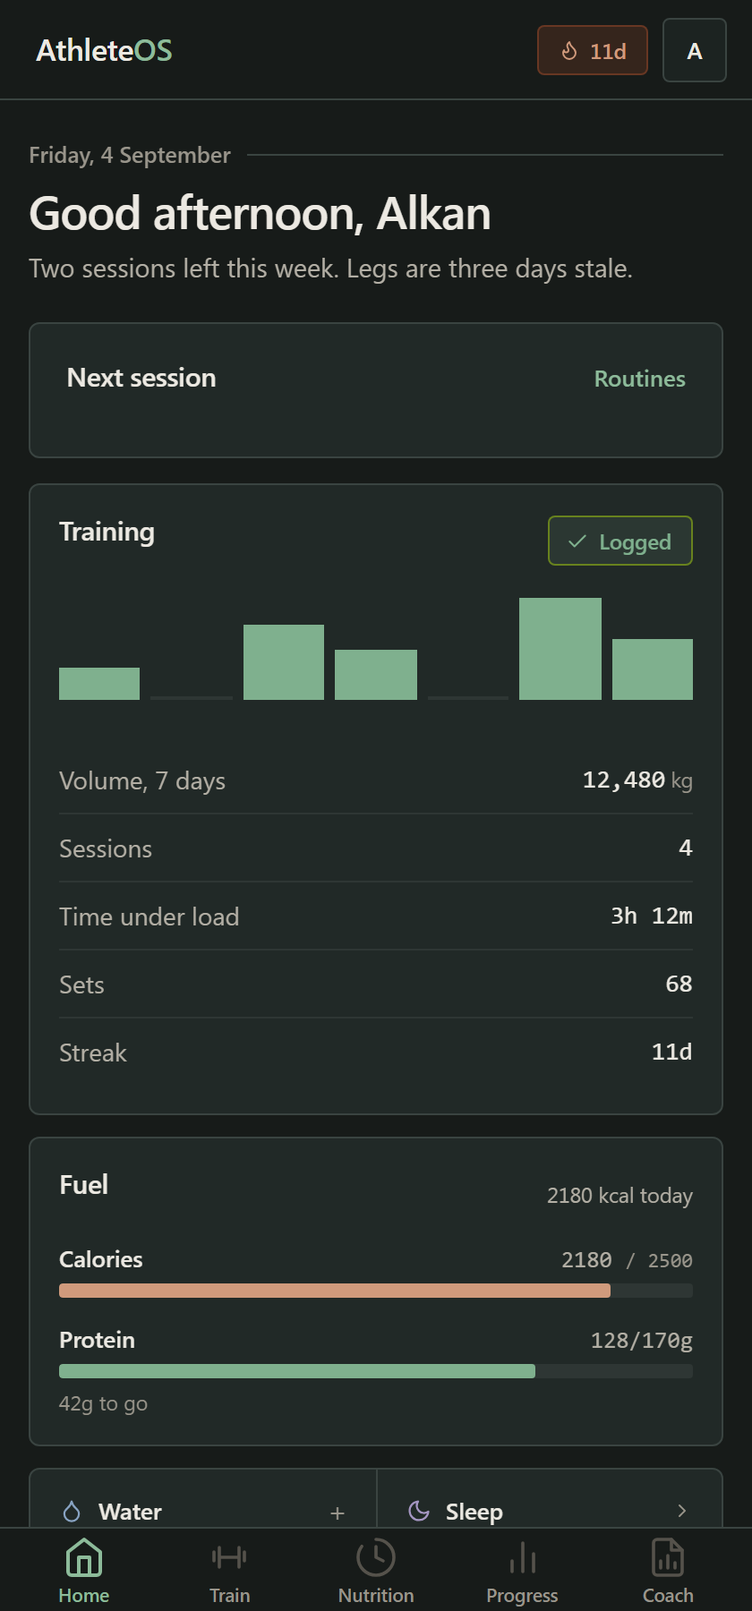
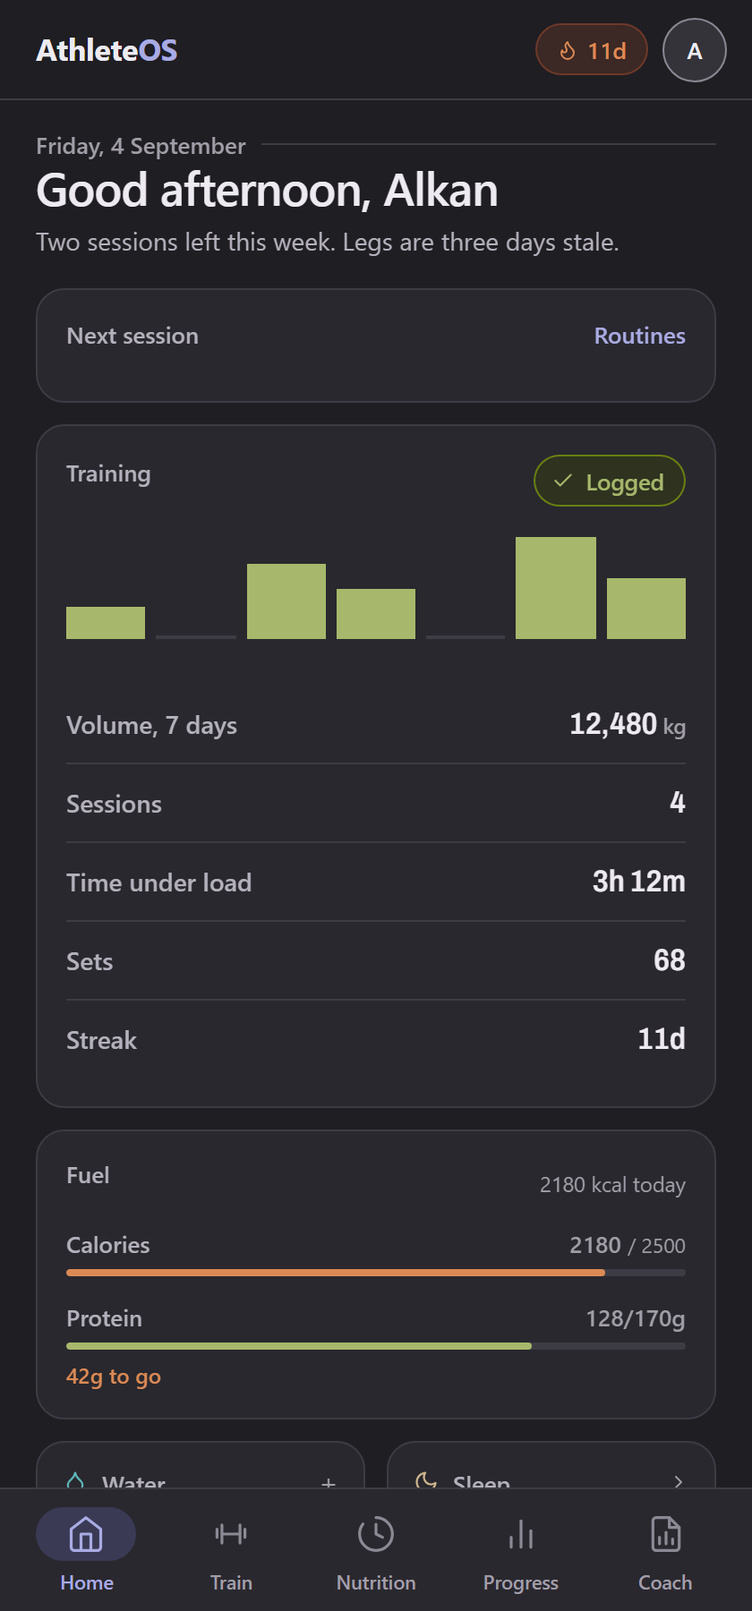
Adopt the Iron design: charcoal cards, one periwinkle accent, Archivo figures
Restyle every screen to the Claude Design handoff (dark-first charcoal
ground with lighter card and input layers, 16/12px radii, flat 1px
borders, gym-toned data colours, Archivo 88% tabular figures) while
keeping all features and the existing five-tab navigation.

Remove the Settings accent picker and the inline accent bootstrap, since
Iron has one accent per theme and inline styles were overriding the
stylesheet. Update theme-color, manifest colours, the SW cache (v80),
chart colour fallbacks, and regenerate the marketing screenshots.

diff --git a/app.css b/app.css
@@ -3245,3 +3245,285 @@ body.dark .rp-h{background:var(--card2)}
 .cv-send{background:var(--accent-fill);border:none;color:#FFFFFF}
 .cv-send:hover{background:var(--accent-fill-d)}
 .cv-send:disabled{background:var(--surface-2);color:var(--t3);cursor:default}
+
+
+/* ═══════════════════════════════════════════════════════════════
+   IRON — final layer (2026-10-29)
+   Dark-first charcoal, cards not rules, periwinkle accent that means
+   "act here", gym-toned data colours, Archivo 88% for every figure.
+   Only colour changes between themes. No shadows, no gradients, no glow.
+   ═══════════════════════════════════════════════════════════════ */
+:root{
+  --font-figure:"Archivo",system-ui,-apple-system,"Segoe UI",Roboto,sans-serif;
+  --font-body:system-ui,-apple-system,"Segoe UI",Roboto,sans-serif;
+  --font-display:var(--font-body);
+  --font-mono:var(--font-figure);
+  --figure-stretch:88%;
+  --r:16px;--r-sm:8px;--r-lg:16px;--r-btn:12px;--r-chip:999px;
+  --shadow-sm:none;--shadow:none;--shadow-lg:none;
+  --dur-tap:120ms;--dur-move:200ms;--ease:cubic-bezier(.2,.7,.2,1);
+
+  /* Light */
+  --ground:#E9E8EC;--surface-i:#F6F5F8;--raised:#FFFFFF;
+  --line:#D5D3DB;--line-strong:#78767F;
+  --ink:#1F1E22;--ink-2:#55535C;--ink-3:#64626C;
+  --accent:#4F4FA0;--accent-d:#43438C;--accent-fg:#FFFFFF;--accent-dim:#E2E2F4;--accent-rgb:79,79,160;
+  --training:#586920;--fuel:#9E4A1A;--water:#196A6E;--sleep:#735F1E;--danger:#B42F27;
+  --fuel-tint:#F3DDD0;--training-tint:#E6EBD2;--water-tint:#D3E9EA;--sleep-tint:#EFE6CF;
+
+  /* legacy token bridge */
+  --bg:var(--ground);--bg2:var(--surface-i);--card:var(--surface-i);--card2:var(--raised);
+  --surface:var(--raised);--surface-2:var(--line);--bm-rest:var(--line);
+  --t:var(--ink);--t2:var(--ink-2);--t3:var(--ink-3);--t4:var(--line-strong);
+  --bdr:var(--line);--bdr2:var(--line);--bdr3:var(--line-strong);
+  --accent-fill:var(--accent);--accent-fill-d:var(--accent-d);--accent-ink:var(--accent-fg);
+  --adim:var(--accent-dim);
+  --blue:var(--water);--bdim:var(--water-tint);
+  --red:var(--danger);--yel:var(--sleep);--pur:var(--sleep);--pink:var(--fuel);
+  --sig-train:var(--training);--sig-train-pure:var(--training);
+  --sig-fuel:var(--fuel);--sig-fuel-pure:var(--fuel);
+  --sig-water:var(--water);--sig-water-pure:var(--water);
+  --sig-sleep:var(--sleep);--sig-sleep-pure:var(--sleep);
+  --sig-track:var(--line);
+}
+html{background:#E9E8EC}
+html.dark{background:#1F1E22}
+body.dark{
+  --ground:#1F1E22;--surface-i:#29282E;--raised:#34333A;
+  --line:#3D3C44;--line-strong:#8B8994;
+  --ink:#EDEBF1;--ink-2:#B4B1BC;--ink-3:#A19EA8;
+  --accent:#A9ABE3;--accent-d:#9A9CD6;--accent-fg:#1F1E22;--accent-dim:#3A3A55;--accent-rgb:169,171,227;
+  --training:#A7B86C;--fuel:#DC8A55;--water:#5DB5B8;--sleep:#CDB68E;--danger:#F08A80;
+  --fuel-tint:#3E2A1E;--training-tint:#2E321F;--water-tint:#1E3334;--sleep-tint:#3A3222;
+  --surface-2:var(--line);
+}
+body{background:var(--ground);color:var(--ink);font-family:var(--font-body);font-feature-settings:"tnum"}
+
+/* ── Figures: Archivo 88%, tabular, heavy ── */
+.stat-num,.readout-v,.ring-v,.meter-v,.util-v,.hero-foot-v,.tile-mini .sv,.tr-vol-unit,
+.sv,.wkday-num,.set-v,.pr-v,.targets-n,.kv td.num,.tbl td.num,.tbl th.num,
+.sw-time,.hud-v,.next-name,.prc-num,.obp-plan-v,.eng-grid td,.si,.rest-time,.rest-big,.bm-v,.cal-day-n{
+  font-family:var(--font-figure);font-stretch:var(--figure-stretch);font-variant-numeric:tabular-nums;font-weight:600;letter-spacing:0}
+.kv td.num,.tbl td.num{font-size:17px}
+.kv td.num small,.kv td.num .su,.util-v .su,.hud-v small{font-family:var(--font-body);font-stretch:100%;font-weight:500;color:var(--ink-3)}
+.util-v{font-size:30px;line-height:1}
+.sv{font-size:30px}
+.tr-vol .stat-num{font-weight:700;letter-spacing:-.02em}
+.sw-time,.rest-time{font-size:36px;font-weight:700;letter-spacing:-.02em;line-height:1}
+.next-name{font-size:34px;font-weight:700;letter-spacing:-.02em;line-height:1}
+.next-body b,.next-body strong{font-family:var(--font-figure);font-stretch:var(--figure-stretch);font-variant-numeric:tabular-nums;font-weight:600;color:var(--ink)}
+
+/* ── Type: titles heavy, labels 13/600 ── */
+.ptitle,.hero-title,.onb-h,.onb-hero,.obp-title,.pw-hero-title,.wc-brand,.alogo,.eng-title,.spl-h{
+  font-family:var(--font-body);font-weight:700;letter-spacing:-.02em;line-height:32px}
+.ptitle,.hero-title{font-size:28px;margin-bottom:14px}
+.hero-title{margin-bottom:4px}
+.home-head{padding:0 0 16px}
+.home-head .hero-title{margin:2px 0 4px}
+.home-date{font-size:13px;font-weight:500;color:var(--ink-3)}
+.home-sub{font-size:14px;color:var(--ink-2)}
+.ctitle,.band-kicker,.next-t,.targets-t,.f label,.meter-l,.util-l,.readout-l,.seclabel,.tgt-l{
+  font-size:13px;font-weight:600;color:var(--ink-2);letter-spacing:0;text-transform:none}
+.ctitle,.band-kicker,.next-t{margin-bottom:10px}
+.band-note,.util-s,.kv-note,.meter-note,.act-time,.rp-h time{font-size:12px;color:var(--ink-3)}
+.meter-v{font-size:13px;font-family:var(--font-body);font-stretch:100%;font-weight:500;color:var(--ink-3)}
+.sb-logo,.tlogo{font-weight:700;font-size:17px}
+.sb-logo span,.tlogo span,.wc-brand span,.alogo span{color:var(--accent)}
+b,strong{font-weight:600}
+
+/* ── Surfaces: cards on --surface, 16px, 1px --line ── */
+.card,.band,.exi,.mc,.acard,.opt-item,.obp-plan,.tip-card,.eng-out,.hero-card,.coach-card,.next,.targets,.util,
+.plan-card,.wk-card,.ex-card,.sg,.rp,.rp-form,.cv-starter,.cm.a,.qa-btn,.rest-preset,.ach-grid .ach,.sb-pro,.pw-hero,.msheet{
+  background:var(--surface-i);border:1px solid var(--line);border-radius:var(--r);box-shadow:none}
+body.dark .card,body.dark .band,body.dark .exi,body.dark .mc,body.dark .acard,body.dark .msheet,
+body.dark .opt-item,body.dark .obp-plan,body.dark .eng-out,body.dark .chat-row,body.dark .rp-h,body.dark .eng-grid th,
+body.dark .opt-item:not(.on),body.dark .atab.on,body.dark .btn-oauth{background:var(--surface-i);box-shadow:none}
+.card{padding:16px;margin-bottom:12px}
+.band{padding:16px;margin-bottom:12px}
+.next{padding:16px;margin-bottom:12px}
+.exi,.mc{padding:14px 16px;margin-bottom:10px}
+.exi{background:var(--surface-i);border:1px solid var(--line);border-top:1px solid var(--line)}
+.panel{padding:16px 20px 40px}
+@media(min-width:900px){.panel{padding:28px 32px 48px}}
+.msheet{border-radius:var(--r) var(--r) 0 0;border-bottom:none}
+.mhandle{background:var(--line-strong)}
+.modal,.tip-overlay{background:rgba(31,30,34,.6)}
+.opt-item.on,.obp-plan.on,.ach.on,.rest-preset.on{border:2px solid var(--accent);background:var(--surface-i)}
+.opt-item.on{padding:13px 15px}
+.obp-plan.on{padding:15px 17px}
+.obp-radio{background:var(--raised);border-color:var(--line-strong)}
+.opt-ico,.qa-ico,.act-ico,.tile-ico,.coach-mark,.sb-pro-ico,.obp-tile,.avatar,.sb-avatar{border-radius:var(--r-sm)}
+.coach-mark,.act-ico{background:var(--raised);color:var(--ink-2);border:1px solid var(--line)}
+.util{gap:12px;border:none;background:transparent;border-radius:0;overflow:visible}
+.util-cell{background:var(--surface-i);border:1px solid var(--line);border-radius:var(--r);padding:14px}
+.util-cell+.util-cell{border-left:1px solid var(--line)}
+.util-cell:hover{background:var(--surface-i)}
+.util-bar,.util-bar i,.meter,.meter-fill,.sync-bar,.nb,.nb i,.spl-prog,.spl-prog-fill{border-radius:2px}
+.meter,.util-bar{height:4px;background:var(--line)}
+.util-bar i{background:var(--water)}
+.util-bar.sleep i{background:var(--sleep)}
+.meter-fill.m-train{background:var(--training)}
+.meter-fill.m-fuel{background:var(--fuel)}
+.meter-note{font-size:12px;font-weight:600;color:var(--fuel)}
+.util-s{font-weight:600}
+.util-cell:first-child .util-s{color:var(--water)}
+.util-cell:last-child .util-s{color:var(--sleep)}
+.hero-spark{margin:4px 0 12px}
+.kv td,.tbl td{padding:12px 0;border-bottom:1px solid var(--line)}
+.kv td:first-child{color:var(--ink-2);font-weight:500}
+.tgt{padding:12px 0;border-bottom:1px solid var(--line)}
+.tgt-box{border-radius:6px;border:1px solid var(--line-strong)}
+.tgt.done .tgt-box,.gs-row.done .gs-check{background:var(--accent);border-color:var(--accent);color:var(--accent-fg)}
+.act-row,.tog-row{border-bottom:1px solid var(--line)}
+.plan-why{border-top:1px solid var(--line)}
+.bc-stage{border-radius:var(--r-btn)}
+#toast{border-radius:var(--r-btn);background:var(--ink);color:var(--ground);border:none;box-shadow:none;font-weight:600}
+body.dark #toast{background:var(--ink);color:var(--ground)}
+.tip-card{border-radius:var(--r);border:1px solid var(--line)}
+.tip-spot{border-radius:var(--r);box-shadow:0 0 0 9999px rgba(31,30,34,.6),0 0 0 2px var(--accent)}
+.skel,.exdemo-skel{background:var(--raised)}
+.rp-empty{border:1px dashed var(--line-strong);border-radius:var(--r);color:var(--ink-3)}
+.bp{border:1px dashed var(--line-strong);border-radius:var(--r-btn)}
+.cal-cell{border-radius:var(--r-sm);background:var(--raised);color:var(--ink-3)}
+.wkday-dot{border-radius:var(--r-sm);background:var(--raised)}
+.wkday-dot.done{background:var(--training-tint);color:var(--training)}
+.wkday-dot.today{box-shadow:inset 0 0 0 2px var(--accent)}
+.wkday-dot.today.done,.cal-cell.tr-3,.pw-tl-dot.now{background:var(--accent);color:var(--accent-fg);box-shadow:none}
+
+/* ── Controls ── */
+.btn,.wc-cta,.obp-cta,.pw-cta,.empty-cta,.tip-card .tip-ok,.chat-send,.rp-run,.cv-send{
+  border-radius:var(--r-btn);box-shadow:none;background:var(--accent);color:var(--accent-fg);font-weight:700;letter-spacing:0;border:none}
+.btn:hover,.wc-cta:hover,.obp-cta:hover,.pw-cta:hover,.rp-run:hover,.cv-send:hover,.empty-cta:hover{background:var(--accent-d);color:var(--accent-fg)}
+body.dark .btn,body.dark .wc-cta,body.dark .obp-cta,body.dark .pw-cta,body.dark .rp-run{color:var(--accent-fg)}
+.btn{min-height:52px;padding:14px 18px;font-size:16px}
+.btnsm{min-height:44px;padding:10px 16px;font-size:14px}
+.wc-cta,.obp-cta{height:52px;font-size:16px}
+.empty-cta{min-height:44px;padding:10px 18px;font-size:14px}
+.btn:disabled,.rp-run:disabled,.cv-send:disabled{background:var(--raised);color:var(--line-strong)}
+.btn-danger{background:transparent;color:var(--danger);border:1px solid var(--danger)}
+.btn-o,.btn-oauth,.eng-reset,.rp-mic,.btnsm.btn-o,.empty-cta.ghost,.cv-mic,.lnk-btn{
+  border-radius:var(--r-btn);border:1px solid var(--line-strong);background:var(--raised);color:var(--ink);box-shadow:none;font-weight:600}
+.btn-o{min-height:48px;padding:12px 18px;font-size:15px}
+.btn-o:hover,.btn-oauth:hover,.eng-reset:hover,.empty-cta.ghost:hover{background:var(--line);border-color:var(--line-strong);color:var(--ink)}
+.btn-g{border-radius:var(--r-btn);font-weight:600;color:var(--accent);min-height:44px}
+.btn-g:hover{color:var(--accent);background:var(--accent-dim)}
+.lnk,.wc-link{color:var(--accent);font-weight:600}
+.pill,.gpill,.badge,.chip,.streak-pill,.bm-chip,.obp-badge,.pw-plan-badge,.tb-pro-pill,.pro-lock,
+.mm-chip,.onb-multi-chip,.chat-chip,.mm-mode-btn,.atabs,.atab{border-radius:var(--r-chip)}
+.pill,.gpill,.mm-chip,.onb-multi-chip{border:1px solid var(--line);background:var(--surface-i);color:var(--ink-2);font-weight:600;min-height:36px}
+.gpill{min-height:44px}
+.pill.on,.gpill.on,.mm-chip.on,.onb-multi-chip.on,body:not(.dark) .pill.on,body:not(.dark) .gpill.on,body:not(.dark) .onb-multi-chip.on{
+  background:var(--accent);border-color:var(--accent);color:var(--accent-fg)}
+.chip,.chip.live,.streak-pill,.badge{background:var(--surface-i);border:1px solid var(--line);color:var(--ink-2);font-weight:600;font-size:13px}
+.chip.live{color:var(--training);border-color:var(--line);background:var(--training-tint)}
+.mm-chip.grow{border-color:transparent;background:var(--training-tint);color:var(--training)}
+.mm-chip.def{border-color:transparent;background:var(--fuel-tint);color:var(--fuel)}
+.mm-chip.exc{border-color:var(--line);background:transparent;color:var(--ink-3)}
+.tb-pro-pill,.obp-badge,.pw-plan-badge,.pro-lock,.musc-best-badge{background:var(--accent);color:var(--accent-fg);font-weight:700}
+.pw-hero-badge{background:var(--accent-dim);color:var(--accent)}
+.atabs{background:var(--raised);border:1px solid var(--line-strong);padding:3px}
+.atab{font-weight:600;color:var(--ink-2);min-height:40px}
+.atab.on,body.dark .atab.on{background:var(--accent);color:var(--accent-fg);border:none}
+.f label{margin-bottom:6px}
+.f input,.f select,.f textarea,.si,.rp-details,.cv-in{
+  background:var(--raised);border:1px solid var(--line-strong);border-radius:var(--r-btn);color:var(--ink);
+  padding:12px 14px;min-height:48px;font-size:16px;font-weight:500;box-shadow:none}
+.si{min-height:56px;font-size:24px;font-weight:600;padding:8px}
+.f input:focus,.f select:focus,.f textarea:focus,.si:focus,.rp-details:focus,.cv-in:focus,
+body.dark .f input:focus,body.dark .f select:focus,body.dark .si:focus,body.dark .rp-details:focus{
+  border-color:var(--accent);background:var(--raised);box-shadow:0 0 0 2px var(--surface-i),0 0 0 4px var(--accent);outline:none}
+.f input::placeholder,.rp-details::placeholder,.cv-in::placeholder{color:var(--ink-3);font-weight:400}
+:focus-visible{outline:none;border-radius:var(--r-sm);box-shadow:0 0 0 2px var(--surface-i),0 0 0 4px var(--accent)}
+button:focus-visible,a:focus-visible,[role="button"]:focus-visible{box-shadow:0 0 0 2px var(--surface-i),0 0 0 4px var(--accent)}
+.setdone{border-radius:var(--r-sm);border:1px solid var(--line-strong);background:var(--raised);width:32px;height:32px}
+.setdone.on{background:var(--training);border-color:var(--training);color:#1F1E22}
+.setn{color:var(--line-strong)}
+.rest-preset{border:1px solid var(--line);border-radius:var(--r);background:var(--surface-i)}
+.rest-preset.on .rp-ico,.rest-preset.on .rp-time{color:var(--accent)}
+body.dark .rest-preset:not(.on){background:var(--surface-i)}
+.avatar{background:var(--raised);color:var(--ink);border:1px solid var(--line-strong);border-radius:var(--r-chip)}
+.avatar.on,.sb-avatar{background:var(--accent);color:var(--accent-fg);border-color:var(--accent);border-radius:var(--r-chip)}
+.musc-tag.s,body.dark .musc-tag.s{background:var(--raised)}
+
+/* ── Press feedback: 120ms scale, no entrance stagger ── */
+button:not([disabled]):active,.btn:active,.wc-cta:active,.obp-cta:active,.btn-o:active,.pill:active,
+.qa-btn:active,.opt-item:active,.coach-card:active,.cv-starter:active,.util-cell:active{transform:scale(.98);transition:transform var(--dur-tap) ease-out}
+.nv:active svg.ico{transform:none}
+.nv:active{opacity:1}
+.meter-fill,.util-bar i{transition:width 240ms ease-in-out}
+
+/* ── Navigation (same five tabs; only the look changes) ── */
+.topbar{border-bottom:1px solid var(--line);background:var(--ground);box-shadow:none}
+.navbar{border-top:1px solid var(--line);background:var(--surface-i);box-shadow:none;padding:8px 8px calc(8px + env(safe-area-inset-bottom,0px))}
+.nv{min-height:52px;gap:4px;padding:0 2px;font-size:11px;font-weight:500;color:var(--ink-3);border-radius:0;justify-content:center}
+.nv svg.ico{width:56px;height:30px;padding:4px 17px;border-radius:var(--r-chip);box-sizing:border-box;stroke-width:1.75;transition:background var(--dur-tap)}
+.nv:active svg.ico{background:var(--raised)}
+.nv.on,body.dark .nv.on,body:not(.dark) .nv.on{color:var(--accent);font-weight:600}
+.nv.on svg.ico{background:var(--accent-dim);stroke-width:1.75}
+.sidebar{border-right:1px solid var(--line);background:var(--surface-i)}
+.sb-head{border-bottom:1px solid var(--line)}
+.sb-item{border-radius:var(--r-btn);font-weight:500;color:var(--ink-2);min-height:44px}
+.sb-item:hover{background:var(--raised);color:var(--ink)}
+.sb-item.on,body.dark .sb-item.on{background:var(--accent-dim);color:var(--accent);font-weight:600}
+.sb-div{background:var(--line)}
+.sb-pro{background:var(--surface-i);border:1px solid var(--line);color:var(--ink);border-radius:var(--r)}
+.sb-pro-ico{background:var(--raised);color:var(--accent)}
+
+/* ── Coach: a conversation ── */
+.eng-head{border-bottom:1px solid var(--line)}
+.eng-title{font-size:20px;line-height:24px}
+.eng-reset{color:var(--ink);border-radius:var(--r-chip);min-height:44px;padding:0 14px}
+.cv-starter{border-radius:var(--r);padding:14px 16px;font-size:15px;min-height:48px;font-weight:500}
+.cv-starter:hover{background:var(--raised);border-color:var(--line-strong)}
+.cv-empty-t{font-size:15px;color:var(--ink-2)}
+.cm{border-radius:var(--r);padding:12px 14px;font-size:15px;line-height:21px}
+.cm.u{background:var(--raised);color:var(--ink);border:1px solid var(--line);border-bottom-right-radius:4px}
+.cm.a{border-bottom-left-radius:4px}
+.cm.a b,.cm.a strong{font-weight:700;color:var(--ink)}
+.cm.a code,.rp-b code{font-family:var(--font-figure);font-stretch:var(--figure-stretch);color:var(--ink-2)}
+#chat-msgs .rp,.rp{border-radius:var(--r)}
+.rp-h{background:var(--surface-i);border-bottom:1px solid var(--line);border-radius:var(--r) var(--r) 0 0}
+.rp-confirm{border:1px solid var(--accent)}
+.rp-confirm .rp-h{color:var(--accent);font-size:13px;font-weight:700;background:transparent}
+.rp-confirm-row{border-bottom:1px solid var(--line);font-size:14px}
+.rp-confirm-actions .btn,.rp-confirm-actions .btn-o{min-height:48px;padding:12px;font-size:15px}
+.eng-grid th{background:var(--surface-i);border-bottom:1px solid var(--line);color:var(--ink-2);font-weight:600;font-size:12px}
+.eng-grid td{border-bottom:1px solid var(--line);font-size:14px}
+.eng-grid-wrap{border:1px solid var(--line);border-radius:var(--r-sm)}
+.cv-row{border-top:1px solid var(--line)}
+.cv-in{min-height:48px;padding:12px 14px}
+.cv-mic,.cv-send{width:48px;height:48px;border-radius:var(--r-btn)}
+.cv-mic.on,.rp-mic.on{background:var(--danger);border-color:var(--danger);color:#FFFFFF}
+.cm-ty .dots span,.dots span{background:var(--ink-3)}
+.sync-bar{background:var(--line)}
+.sync-bar::after{background:var(--accent);opacity:.7}
+
+/* ── Charts / rings ── */
+.ring-track,.sring-track,.spl-ring-t{stroke:var(--line)}
+.ring-arc{stroke-linecap:round}
+.spl-ring-a{stroke:var(--accent)}
+.spl-prog-fill{background:var(--accent)}
+
+/* ── Reduced motion ── */
+@media (prefers-reduced-motion:reduce){
+  *,*::before,*::after{transition-duration:120ms!important;animation:none!important}
+  button:not([disabled]):active,.btn:active,.nv:active svg.ico{transform:none!important}
+}
+
+/* Dark bridge: body.dark literals from older layers beat :root var() on the body, so restate them here. */
+body.dark{
+  --bg:var(--ground);--bg2:var(--surface-i);--card:var(--surface-i);--card2:var(--raised);
+  --surface:var(--raised);--surface-2:var(--line);--bm-rest:var(--line);
+  --t:var(--ink);--t2:var(--ink-2);--t3:var(--ink-3);--t4:var(--line-strong);
+  --bdr:var(--line);--bdr2:var(--line);--bdr3:var(--line-strong);
+  --accent-fill:var(--accent);--accent-fill-d:var(--accent-d);--accent-ink:var(--accent-fg);--adim:var(--accent-dim);
+  --blue:var(--water);--bdim:var(--water-tint);--red:var(--danger);--yel:var(--sleep);--pur:var(--sleep);--pink:var(--fuel);
+  --sig-train:var(--training);--sig-train-pure:var(--training);--sig-fuel:var(--fuel);--sig-fuel-pure:var(--fuel);
+  --sig-water:var(--water);--sig-water-pure:var(--water);--sig-sleep:var(--sleep);--sig-sleep-pure:var(--sleep);--sig-track:var(--line);
+}
+body.dark .pill.on,body.dark .gpill.on,body.dark .mm-chip.on,body.dark .onb-multi-chip.on{color:var(--accent-fg)}
+.opt-item:hover,body:not(.dark) .opt-item:hover{background:var(--surface-i);border-color:var(--line-strong)}
+.opt-item.on,body:not(.dark) .opt-item.on,body.dark .opt-item.on{background:var(--surface-i)}
+.onb-multi-chip.on,body:not(.dark) .onb-multi-chip.on{background:var(--accent);color:var(--accent-fg);border-width:1px;padding:18px 16px}
+body.dark .eng-out,body.dark .eng-out-h,body.dark .chat-row,body.dark .eng-grid th,body.dark .btn-oauth{background:var(--surface-i)}
+body.dark .btn-oauth{background:var(--raised)}

diff --git a/index.html b/index.html
@@ -7,7 +7,7 @@
 <meta name="apple-mobile-web-app-capable" content="yes">
 <meta name="apple-mobile-web-app-status-bar-style" content="black-translucent">
 <meta name="apple-mobile-web-app-title" content="AthleteOS">
-<meta name="theme-color" content="#0A0A0C">
+<meta name="theme-color" content="#1F1E22">
 <link rel="manifest" href="manifest.json">
 <link rel="apple-touch-icon" href="icon-192.png">
 <title>AthleteOS</title>
@@ -23,22 +23,10 @@
   var m=localStorage.getItem('athleteos_theme')||'dark';
   var dark=m==='dark'||(m==='system'&&window.matchMedia&&window.matchMedia('(prefers-color-scheme: dark)').matches);
   if(dark)document.documentElement.classList.add('dark');
-  /* [dark text accent, dark text hover, dark fill, light fill, light hover, dark fill hover] */
-  var A={moss:['#8DBB9A','#A0C9AC','#3F6F52','#3E6B4C','#325A3E','#4A7F5F'],
-         clay:['#D9A07F','#E2B194','#9E5330','#B35A33','#964A28','#B06040'],
-         ochre:['#D4B46A','#DEC283','#8A6A1E','#8A6718','#735514','#9A7A2A'],
-         slate:['#93ACC9','#A5BBD4','#3F5A7A','#4A6480','#3B5068','#4B6A8E']};
-  var LEGACY={volt:'moss',green:'moss',forest:'moss',forge:'clay',cool:'slate',purple:'slate',pink:'clay',plum:'slate'};
-  var key=localStorage.getItem('athleteos_accent')||'moss';key=LEGACY[key]||key;
-  var a=A[key]||A.moss;
-  var st=document.documentElement.style;
-  st.setProperty('--accent',dark?a[0]:a[3]);
-  st.setProperty('--accent-d',dark?a[1]:a[4]);
-  st.setProperty('--accent-fill',dark?a[2]:a[3]);
-  st.setProperty('--accent-fill-d',dark?a[5]:a[4]);
-  st.setProperty('--accent-ink','#FFFFFF');
+  /* Iron: one accent per theme lives in app.css; nothing is set inline. */
 }catch(e){}})();
 </script>
+<link rel="stylesheet" href="https://fonts.googleapis.com/css2?family=Archivo:wdth,wght@75..100,500..700&display=swap">
 <link rel="stylesheet" href="app.css">
 </head>
 <body>
@@ -826,15 +814,6 @@
               <button type="button" class="gpill" id="thm-light" onclick="setThemeMode('light')">Light</button>
               <button type="button" class="gpill on" id="thm-dark" onclick="setThemeMode('dark')">Dark</button>
               <button type="button" class="gpill" id="thm-system" onclick="setThemeMode('system')">System</button>
-            </div>
-          </div>
-          <div class="set-field set-field-last">
-            <div class="set-field-h"><span>Accent</span><span class="tm" id="accent-sub">Moss</span></div>
-            <div class="acc-row">
-              <button type="button" class="acc-pick on" data-acc="moss" onclick="setAccent('moss')" style="--c:#3E6B4C" aria-label="Moss"></button>
-              <button type="button" class="acc-pick" data-acc="clay" onclick="setAccent('clay')" style="--c:#B35A33" aria-label="Clay"></button>
-              <button type="button" class="acc-pick" data-acc="ochre" onclick="setAccent('ochre')" style="--c:#8A6718" aria-label="Ochre"></button>
-              <button type="button" class="acc-pick" data-acc="slate" onclick="setAccent('slate')" style="--c:#4A6480" aria-label="Slate"></button>
             </div>
           </div>
         </div>

diff --git a/js/settings.js b/js/settings.js
@@ -98,21 +98,9 @@ var ACCENTS={
 };
 var ACCENT_LEGACY={volt:'moss',green:'moss',forest:'moss',forge:'clay',cool:'moss',purple:'moss',pink:'clay',plum:'moss'};
 function applyAccent(name){
-  name=ACCENT_LEGACY[name]||name;
-  var p=ACCENTS[name]||ACCENTS.moss;
+  // Iron has a single accent per theme; clear anything an older build wrote inline.
   var root=document.documentElement;
-  var dark=document.body.classList.contains('dark');
-  // On the light ground a near-white accent has nowhere to go: swap to the
-  // declared stand-in and put white back on top of it.
-  root.style.setProperty('--accent',dark?p.a:p.lt);
-  root.style.setProperty('--accent-d',dark?p.d:p.ltd);
-  root.style.setProperty('--accent-fill',dark?p.fill:p.lt);
-  root.style.setProperty('--accent-fill-d',dark?p.filld:p.ltd);
-  root.style.setProperty('--accent-ink','#FFFFFF');
-  root.style.setProperty('--adim',dark?'rgba('+p.rgbd+',.14)':'rgba('+p.rgb+',.10)');
-  root.style.setProperty('--accent-rgb',p.rgb);
-  document.querySelectorAll('.acc-pick').forEach(function(b){b.classList.toggle('on',b.dataset.acc===name);});
-  var sub=document.getElementById('accent-sub');if(sub)sub.textContent=name.charAt(0).toUpperCase()+name.slice(1);
+  ['--accent','--accent-d','--accent-fill','--accent-fill-d','--accent-ink','--adim','--accent-rgb'].forEach(function(p){root.style.removeProperty(p);});
 }
 function setAccent(name){
   try{localStorage.setItem('athleteos_accent',name);}catch(e){}

diff --git a/js/workout.js b/js/workout.js
@@ -1,7 +1,7 @@
 /* ── EXERCISE DATABASE ────────────────────── */
 // Canvas cannot read CSS custom properties, so the share image asks the
 // live accent for its rgb triple and builds the alpha variant itself.
-function _accentRgba(a){var rgb='';try{rgb=getComputedStyle(document.body).getPropertyValue('--accent-rgb').trim();}catch(e){}return 'rgba('+(rgb||'204,255,0')+','+a+')';}
+function _accentRgba(a){var rgb='';try{rgb=getComputedStyle(document.body).getPropertyValue('--accent-rgb').trim();}catch(e){}return 'rgba('+(rgb||'169,171,227')+','+a+')';}
 var EX_DB={
   'Bench Press':{an:'push_h',pri:['Chest'],sec:['Front Delts','Triceps'],desc:'The cornerstone of upper body pushing strength. Lying flat, you lower a barbell to the lower chest and drive it back up, building raw chest mass and power.',tips:['Retract and depress shoulder blades throughout the lift','Maintain a slight arch — keep your feet flat on the floor','Bar touches lower chest, not your neck']},
   'Incline Press':{an:'push_h',pri:['Upper Chest'],sec:['Front Delts','Triceps'],desc:'Shifts emphasis to the clavicular head of the chest — the upper portion that creates a full, complete chest from top to bottom.',tips:['Set bench at 30–45 degrees','Avoid excessive elbow flare','Feel the deep stretch at the bottom of each rep']},

diff --git a/js/home.js b/js/home.js
@@ -77,7 +77,7 @@ function _chartAxes(opts){
     y:Object.assign({grid:{display:false},border:{display:false},ticks:Object.assign({maxTicksLimit:4},tick,opts.yTick||{})},opts.y||{})
   };
 }
-function _sig(n){try{return getComputedStyle(document.body).getPropertyValue(n).trim()||'#22C55E';}catch(e){return '#22C55E';}}
+function _sig(n){try{return getComputedStyle(document.body).getPropertyValue(n).trim()||'#A9ABE3';}catch(e){return '#A9ABE3';}}
 var RING_LG=295.31, RING_SM=138.23; // circumferences for r=47 and r=22
 function setRing(id,pctVal,circ){
   var el=document.getElementById(id);if(!el)return;

diff --git a/sw.js b/sw.js
@@ -1,4 +1,4 @@
-const CACHE='athleteos-v79';
+const CACHE='athleteos-v80';
 
 const BASE=self.registration.scope;
 const ASSETS=[
